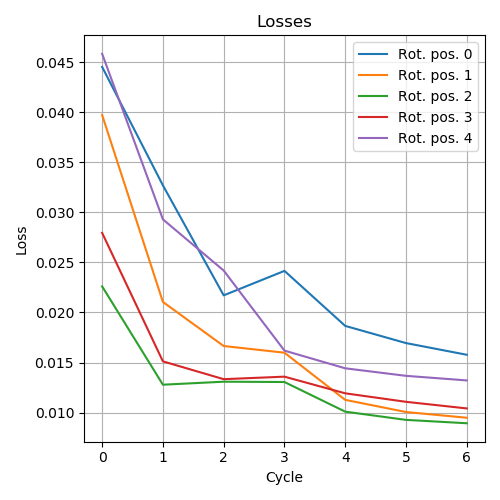
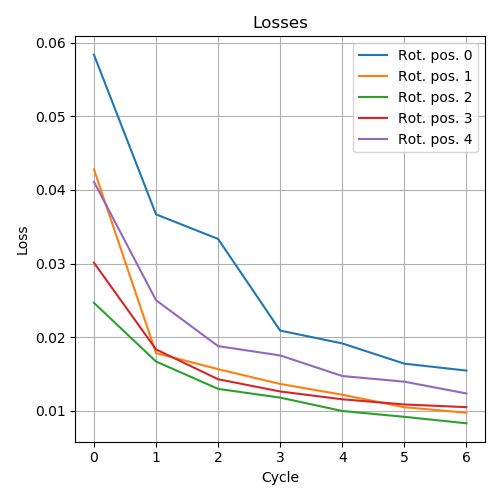
comment

diff --git a/code/train_new.py b/code/train_new.py
@@ -14,14 +14,14 @@ import utilities as util
 import models
 
 
-params = {'name': 'FRNN_modtanh',
+params = {'name': 'FRNN_new2',
           'path2data': '../data/ID02_1h.mat',
           # model parameters ------------------------
           'channel_size': 10,
           'hidden_size': 10,
           'lambda': 0.5,
-          'nonlinearity': 'tanh',
-          'bias': True,
+          'nonlinearity': 'sigmoid',
+          'bias': False,
           # train parameters -------------------------
           'sample_size': 1000,
           'window_size': 50,
@@ -45,33 +45,30 @@ optimizer = torch.optim.Adam(model.parameters(), lr=0.001)
 
 # Train
 start_time = time.time()
-cycle_loss = []
 
-for cycle_nr in range(params['cycles']):
-    if cycle_nr is not 0 and cycle_nr % 2 is 0:
+
+epochs = 5
+loss = []
+temp_loss = np.zeros([len(X_train), len(ch_out_rotation)])
+epoch_loss = np.zeros([epochs, len(ch_out_rotation)])
+
+for epoch in range(epochs):
+    if epoch is not 0 and epoch % 3 is 0:
         for param_group in optimizer.param_groups:
             param_group['lr'] = param_group['lr']/2
-    for rot_pos, ch_out in enumerate(ch_out_rotation):
-        temp_loss = []
-        epoch_loss = []
-        model.make_gate(ch_out)
 
-        for epoch in range(params['epochs_per_cycle']):
-            for idx, X in enumerate(X_train):
-                optimizer.zero_grad()
-                Y_pred = model(X)
-                loss = criterion(Y_pred[ch_out], X[-1:, ch_out])
-                loss.backward()
-                optimizer.step()
-                temp_loss.append(loss.item())
-
-            epoch_loss.append(np.mean(np.asarray(temp_loss)))
-            print(f'Cycle: {cycle_nr} | Rot. pos.: {rot_pos} | Epoch: {epoch} | Loss: {epoch_loss[epoch]:.4}')
-
-        if cycle_nr is 0:
-            cycle_loss.append(np.asarray(epoch_loss))
-        else:
-            cycle_loss[rot_pos] = np.concatenate((cycle_loss[rot_pos], np.asarray(epoch_loss)), 0)
+    for smpl_idx, X in enumerate(X_train):
+        loss = []
+        optimizer.zero_grad()
+        for rot_pos, ch_out in enumerate(ch_out_rotation):
+            model.make_gate(ch_out)
+            Y_pred = model(X)
+            loss.append(criterion(Y_pred[ch_out], X[-1, ch_out]))
+            temp_loss[smpl_idx, rot_pos] = loss[rot_pos].item()
+        torch.autograd.backward(loss)
+        optimizer.step()
+    epoch_loss[epoch, :] = np.mean(temp_loss, axis=0)
+    print(f'Epoch: {epoch} | Loss: {np.mean(temp_loss):.4}')
 
 total_time = time.time() - start_time
 print(f'Time [min]: {total_time/60:.3}')
@@ -79,7 +76,7 @@ print(f'Time [min]: {total_time/60:.3}')
 # Plot loss
 fig, ax = plt.subplots(1, figsize=(5, 5))
 for i in range(len(ch_out_rotation)):
-    ax.plot(cycle_loss[i], label='Rot. pos. ' + str(i))
+    ax.plot(epoch_loss[:, i], label='Rot. pos. ' + str(i))
     ax.legend()
 ax.set_title('Losses')
 ax.set_ylabel('Loss')

diff --git a/code/evaluation.py b/code/evaluation.py
@@ -6,7 +6,6 @@ Part of master thesis Segessenmann J. (2020)
 import matplotlib.pyplot as plt
 import numpy as np
 import torch
-import torch.nn as nn
 import pickle
 
 import utilities as util
@@ -14,7 +13,7 @@ import models
 
 
 # Load parameters
-params = pickle.load(open('../models/FRNN_tanh.pkl', 'rb'))
+params = pickle.load(open('../models/FRNN_new2.pkl', 'rb'))
 
 # Load data
 X_train, X_test = util.data_loader(params)
@@ -26,14 +25,14 @@ model.load_state_dict(torch.load('../models/' + params['name'] + '.pth'))
 # Evaluate model
 model.eval()
 
-ch = [0, 5, 9]
+ch = [0, 5]
 model.make_gate(ch)
 Y_preds = []
 Y = []
 for idx, X in enumerate(X_test):
     with torch.no_grad():
         Y_all = model(X).numpy()
-        Y_preds.append(Y_all[-1, ch])
+        Y_preds.append(Y_all[ch])
         Y.append(X[-1, ch].numpy())
 
 preds = np.asarray(Y_preds)

diff --git a/code/models.py b/code/models.py
@@ -40,10 +40,10 @@ class FRNN(nn.Module):
         # Initialize r and i nodes
         r = torch.zeros(self.full_size, dtype=torch.float32)
         i = torch.zeros(self.full_size, dtype=torch.float32)
-        u = torch.zeros(X.shape[0], self.full_size, dtype=torch.float32)
+        #u = torch.zeros(X.shape[0], self.full_size, dtype=torch.float32)
         # Forward path
         for idx in range(X.shape[0]):
             i[:self.visible_size] = X[idx, :]
-            u[idx, :] = (torch.mul(self.Lambda, self.W(r)) + torch.mul((1 - self.Lambda), i))
-            r = self.nonlinearity(u[idx, :])
-        return u[:, :self.visible_size]
+            u = torch.mul(self.Lambda, self.W(r)) + torch.mul((1 - self.Lambda), i)
+            r = self.nonlinearity(u)
+        return u[:self.visible_size]
